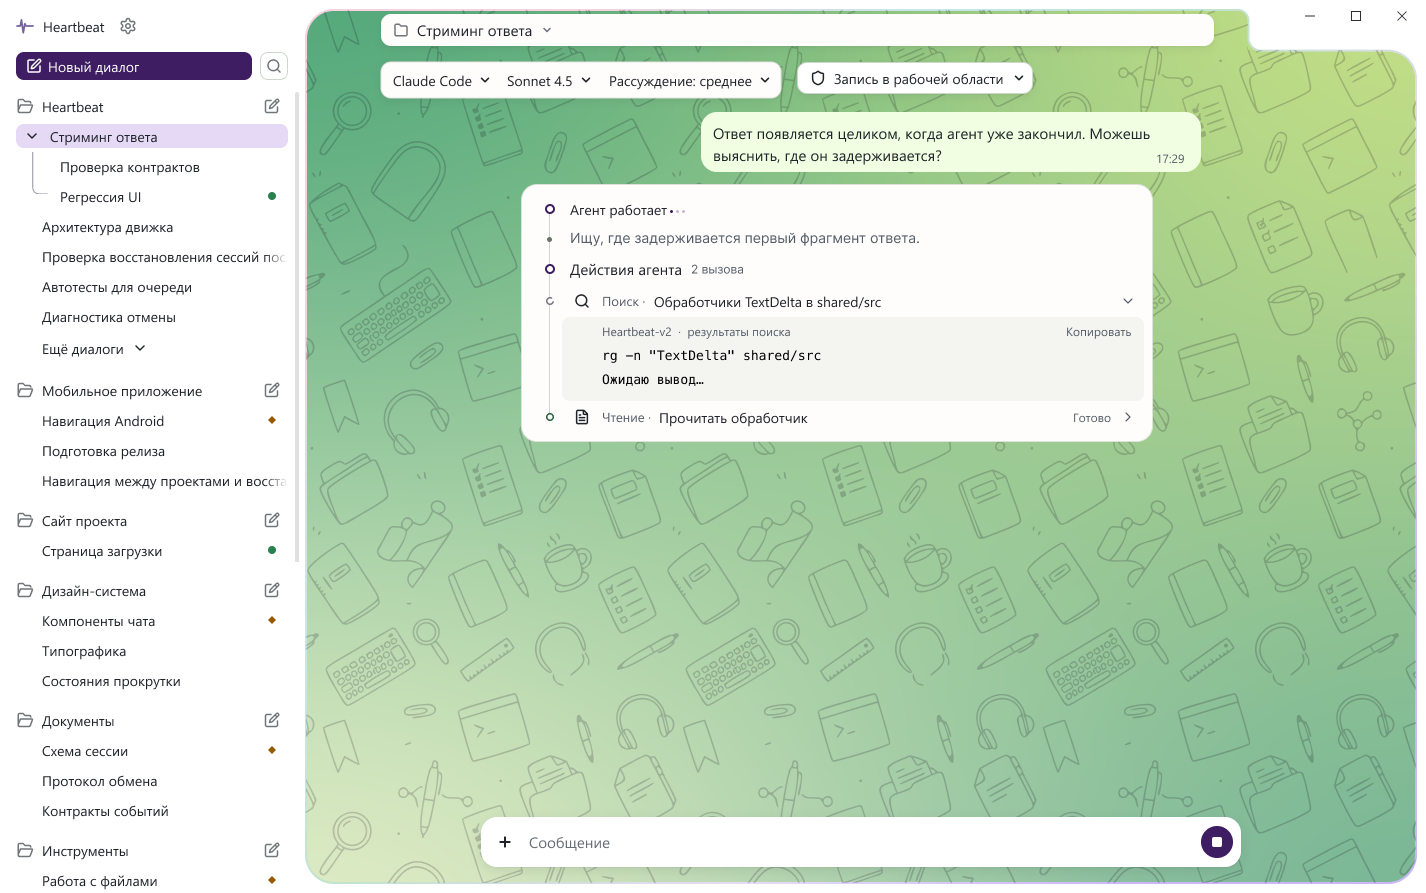
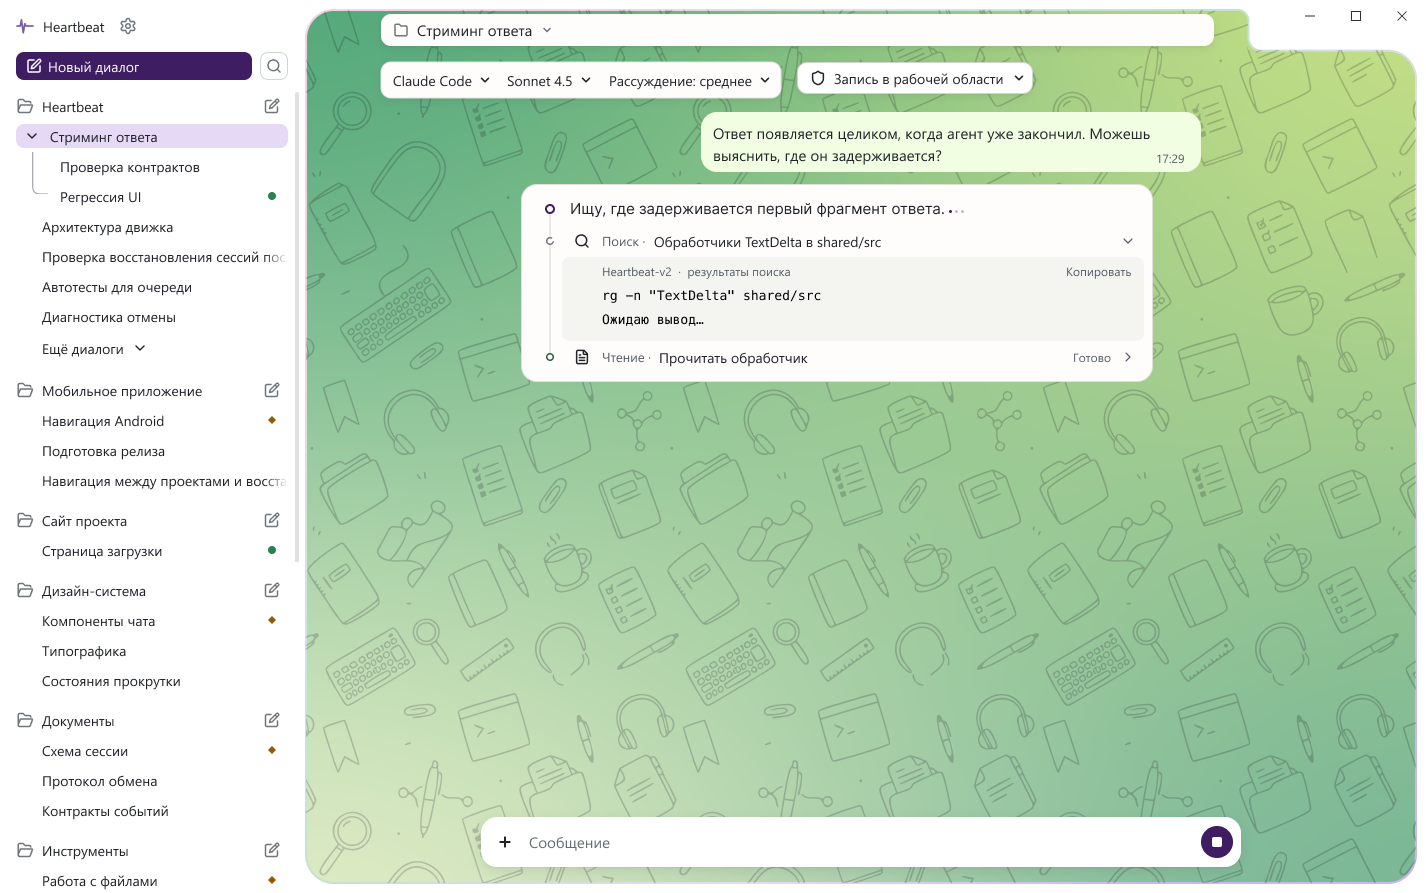
Show active stages with zero or one tool call

Changed region(s): [[0.3394, 0.2116, 0.8331, 0.514], [0.7405, 0.3024, 0.8022, 0.3326]]

diff --git a/plans/aurora-chat-longread.md b/plans/aurora-chat-longread.md
@@ -251,6 +251,6 @@
 
 ### Хронология активного ответа
 
-Фиолетовое кольцо и «Агент работает» отмечают активный ход. Под статусом видны публичное пояснение и вызов со своим результатом. При параллельной работе справа в строке статуса показано количество активных вызовов. В прерванном ответе остаются история, уже полученный текст и состояние ответа.
+Активный ход отмечен фиолетовым кольцом, публичной целью и тремя точками. Цель задаёт агент, при пустом названии клиент использует локальное название этапа. Текущий ход всегда открыт. Первый инструмент располагается прямо на линии. Если следующий ход сразу выдаёт промежуточный итог без инструментов, его текст дополняет предыдущий этап. При прямом ответе остаётся реплика с временем. [Один вызов и ход без инструментов](https://www.figma.com/design/ivLmgulIBIkMzOw8sgvKxj/Aurora-DS?node-id=493-122774). При параллельной работе справа в строке статуса показано количество активных вызовов. В прерванном ответе остаются история, уже полученный текст и состояние ответа.
 
 У этапа с одним шагом нет отдельного переключателя группы. Инструмент остаётся на линии, а его подробности раскрываются своим шевроном. Заголовок «Ход работы» поддерживает наведение и выделение в раскрытой и свёрнутой истории. [Варианты одного шага](https://www.figma.com/design/ivLmgulIBIkMzOw8sgvKxj/Aurora-DS?node-id=493-122774) · [Выделение заголовка](https://www.figma.com/design/ivLmgulIBIkMzOw8sgvKxj/Aurora-DS?node-id=493-119687).

diff --git a/CHECKPOINT.md b/CHECKPOINT.md
@@ -10,6 +10,8 @@
 
 В работающем приложении проверены бейдж нижнего угла и ПКМ у обеих ролей. У пользователя шеврон слева, у агента справа. У завершённого ответа открывается «Копировать», у отправленной реплики — также «Редактировать». В Figma есть [подсказка ошибки доставки](https://www.figma.com/design/ivLmgulIBIkMzOw8sgvKxj/Aurora-DS?node-id=493-109545), [причина прерывания](https://www.figma.com/design/ivLmgulIBIkMzOw8sgvKxj/Aurora-DS?node-id=493-121828) и [меню продолжения](https://www.figma.com/design/ivLmgulIBIkMzOw8sgvKxj/Aurora-DS?node-id=493-114635).
 
+На листе показаны текущая цель без вызовов, единственный инструмент на линии, следующий итог без вызовов и прямой финальный ответ. У активной цели нет шеврона и переключения по клику. [Текущий этап в длинной истории](https://www.figma.com/design/ivLmgulIBIkMzOw8sgvKxj/Aurora-DS?node-id=466-151046).
+
 Для одного шага сверить [статус, публичный ход и вызов на общей линии](https://www.figma.com/design/ivLmgulIBIkMzOw8sgvKxj/Aurora-DS?node-id=493-122774). Этап с одним вызовом остаётся видимым. Подробности инструмента доступны отдельно. В открытой истории [выделение заголовка](https://www.figma.com/design/ivLmgulIBIkMzOw8sgvKxj/Aurora-DS?node-id=493-119687) сохраняет раскрытие и фон наведения.
 
 ### Проверка прототипа
